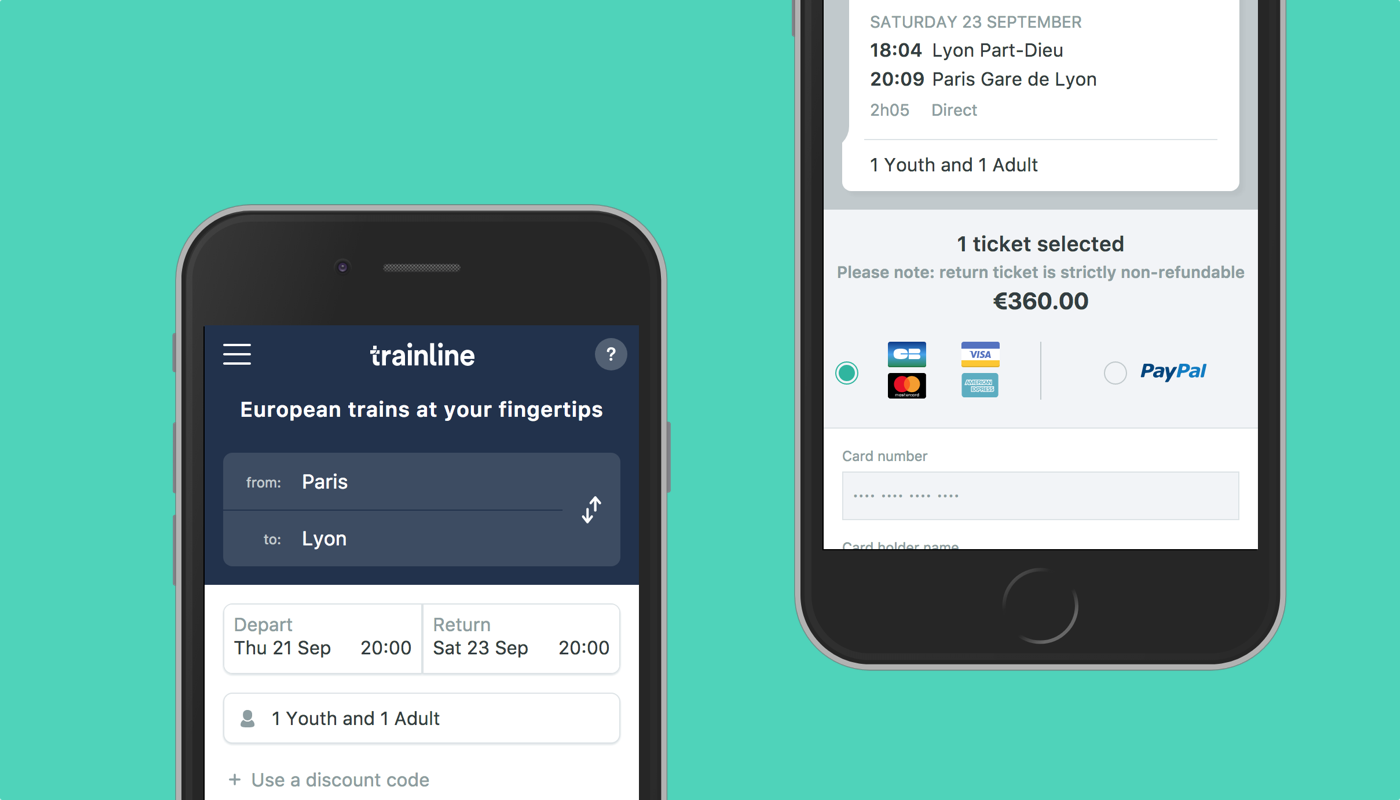
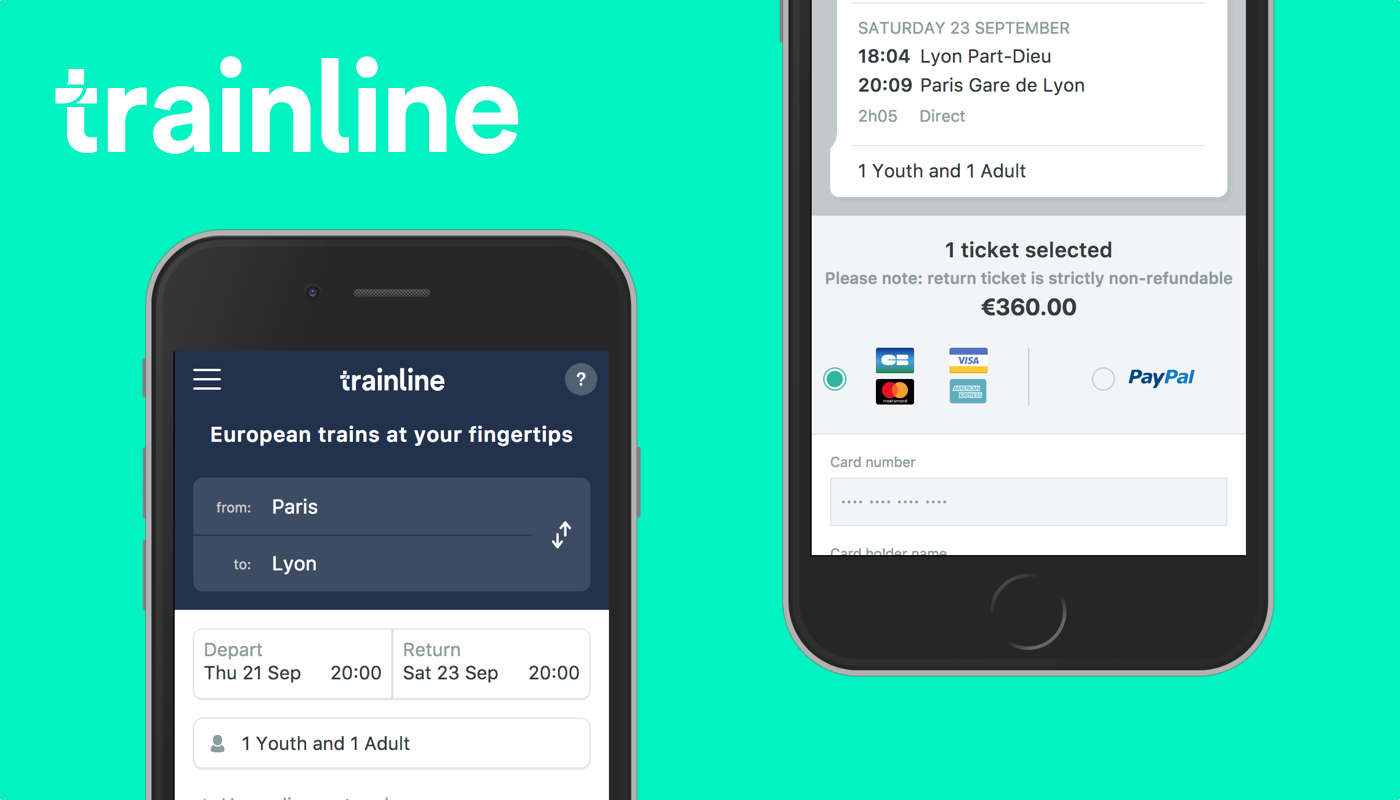
better client teasers

diff --git a/index.html b/index.html
@@ -42,17 +42,11 @@ class: index
         <a href="/work/cases/trainline" class="teaser-link">
           <img src="/images/cases/trainline/teaser.png" class="img-fluid teaser-image" alt="client case - trainline">
         </a>
-        <h4>Trainline</h4>
-        <p>simplabs <strong>helped Europe’s leading independent train ticket retailer build their mobile web site</strong> using Ember.js. We worked closely with trainline’s in-house engineering team, helping to establish best practices and a smooth process.</p>
-        <p><a href="/work/cases/trainline">Read Case</a></p>
       </div>
       <div class="col-12 col-sm-6 teaser">
         <a href="/work/cases/timify" class="teaser-link">
           <img src="/images/cases/timify/teaser.png" class="img-fluid teaser-image" alt="client case - timify">
         </a>
-        <h4>Timify</h4>
-        <p>simplabs built the <strong>first version of Timify’s core product, providing them with a solid foundation</strong> for the future. The newly built in-house engineering team was able to pick that up and continue development afterwards.</p>
-        <p><a href="/work/cases/timify">Read Case</a></p>
       </div>
     </div>
   </div>

diff --git a/css/pages/cases/trainline.scss b/css/pages/cases/trainline.scss
@@ -1,6 +1,6 @@
 body.trainline-case {
   $trainline-primary-menu-background-color: transparent;
-  $trainline-primary-menu-scrolled-background-color: #00c6a6;
+  $trainline-primary-menu-scrolled-background-color: #02f3c1;
   $trainline-primary-header-background-color: #00c6a6;
   $trainline-primary-highlight-color: #fff;
   $trainline-secondary-highlight-color: #00c6a6;
